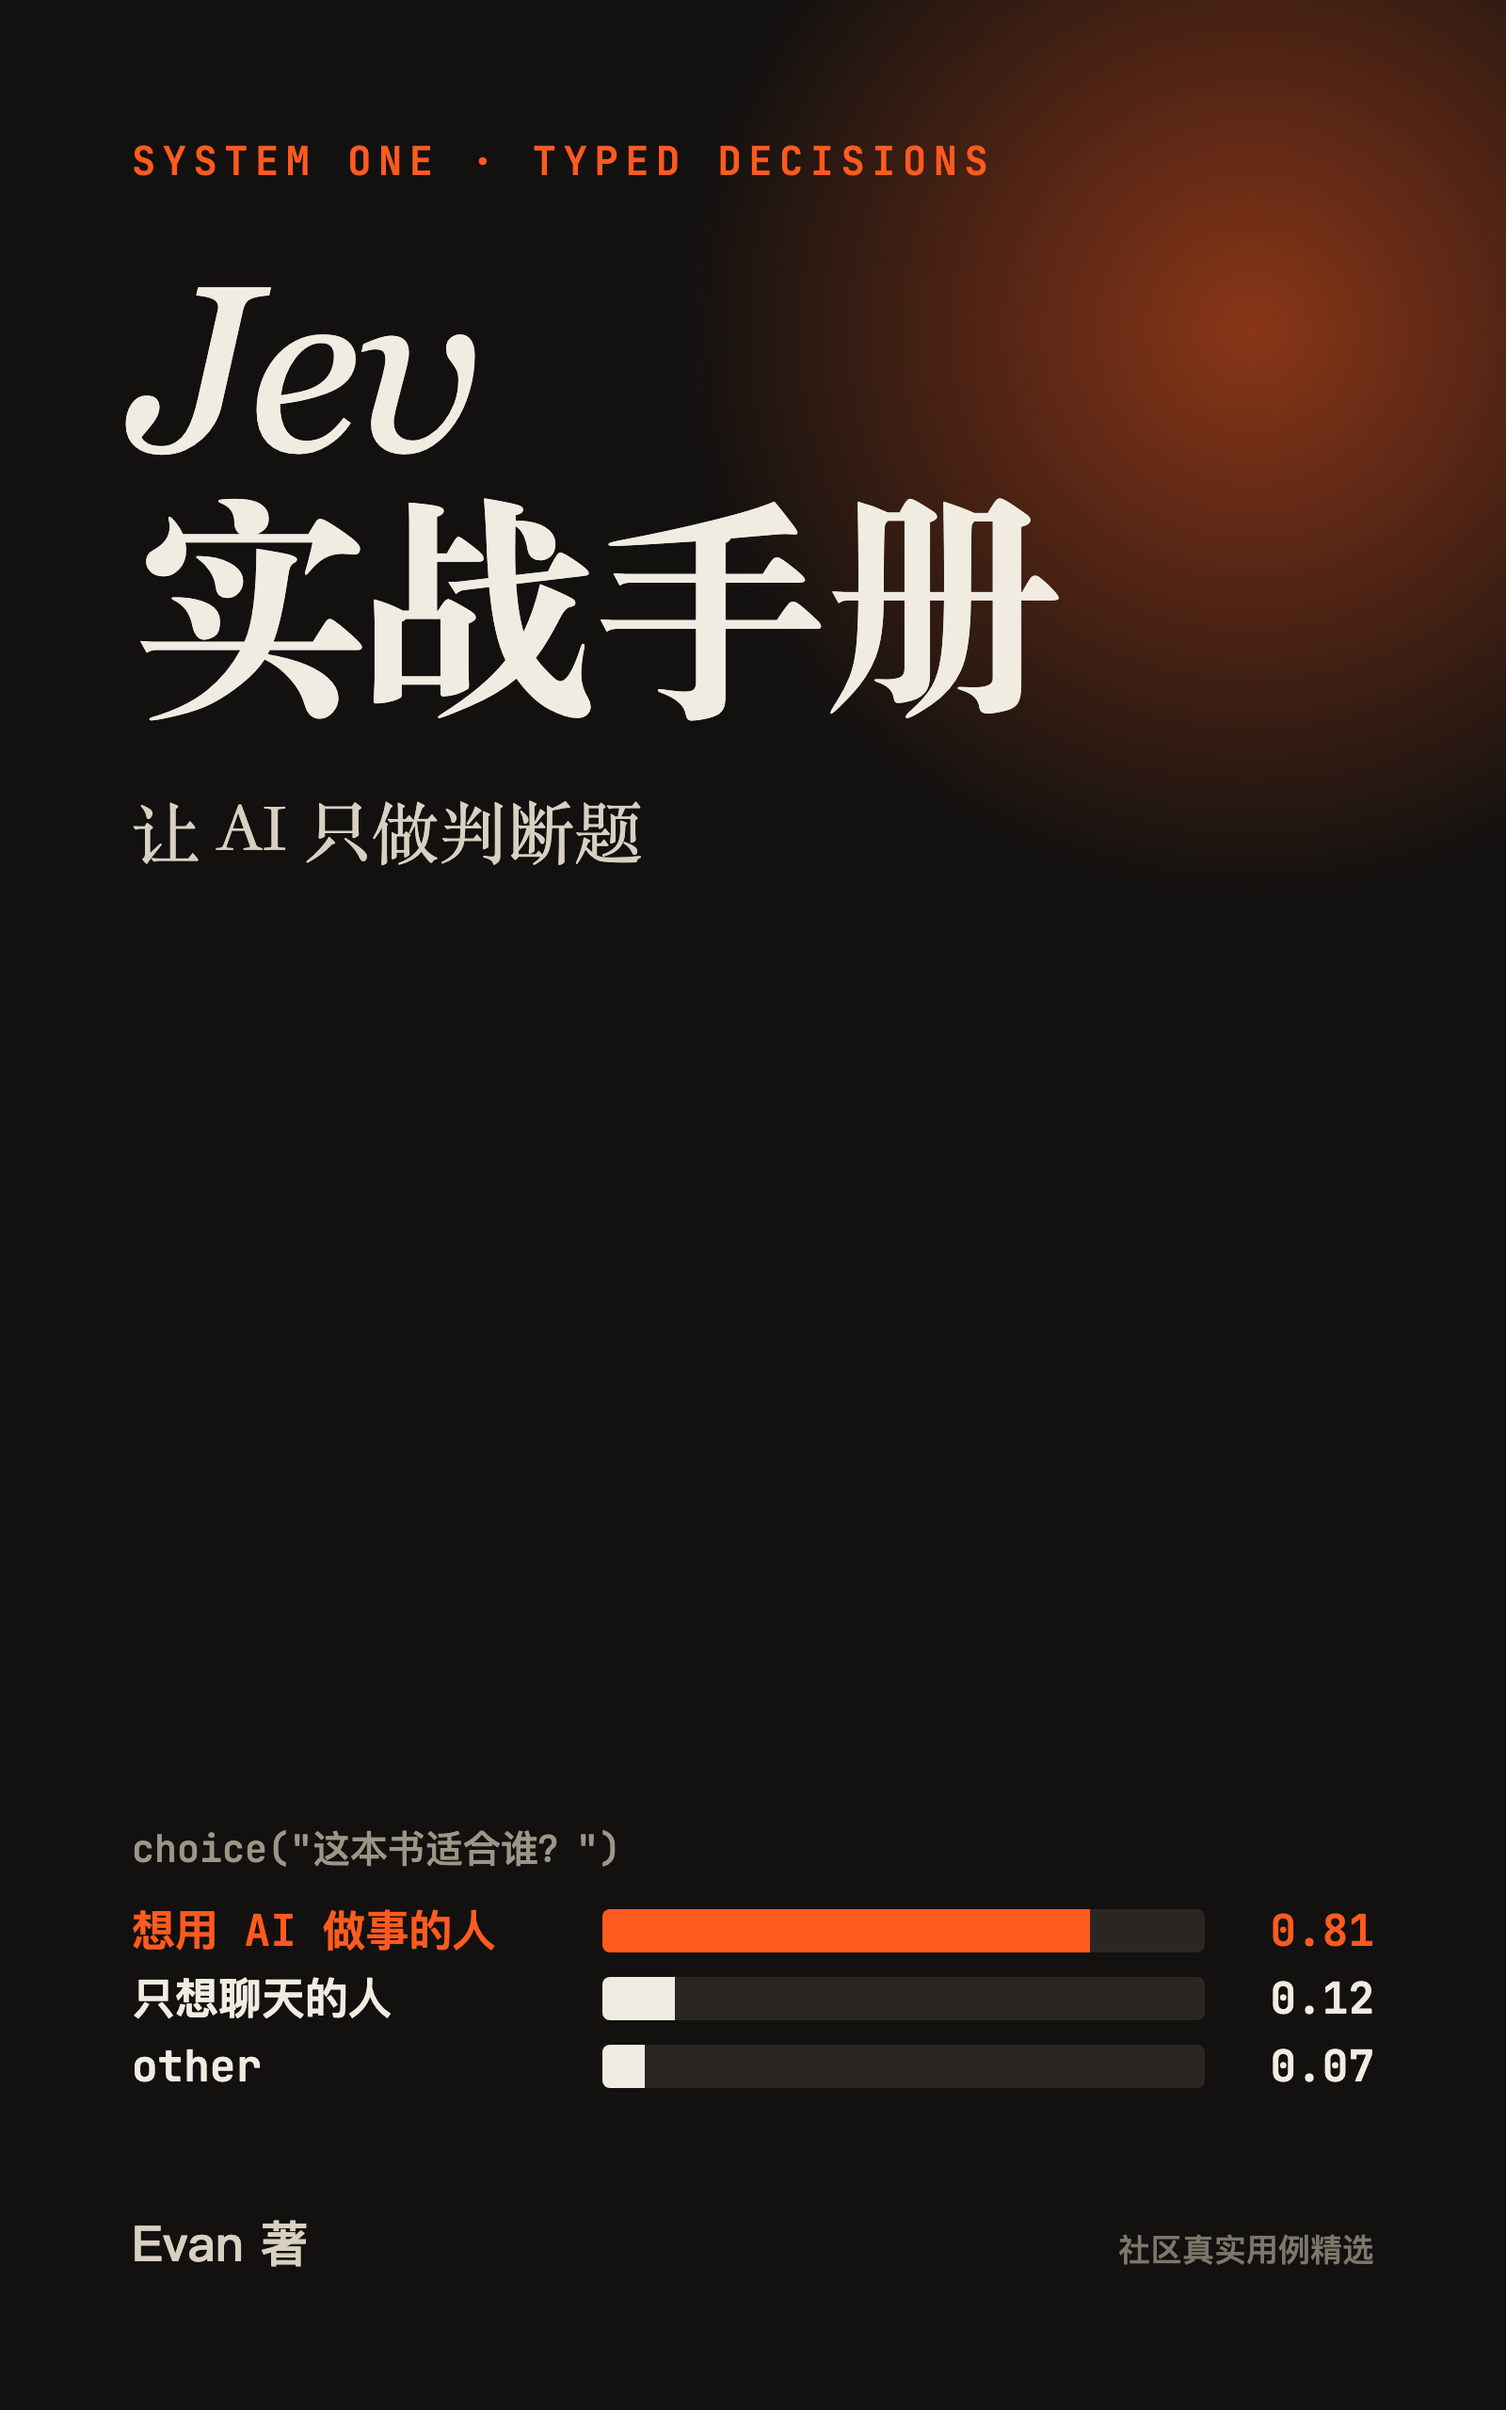
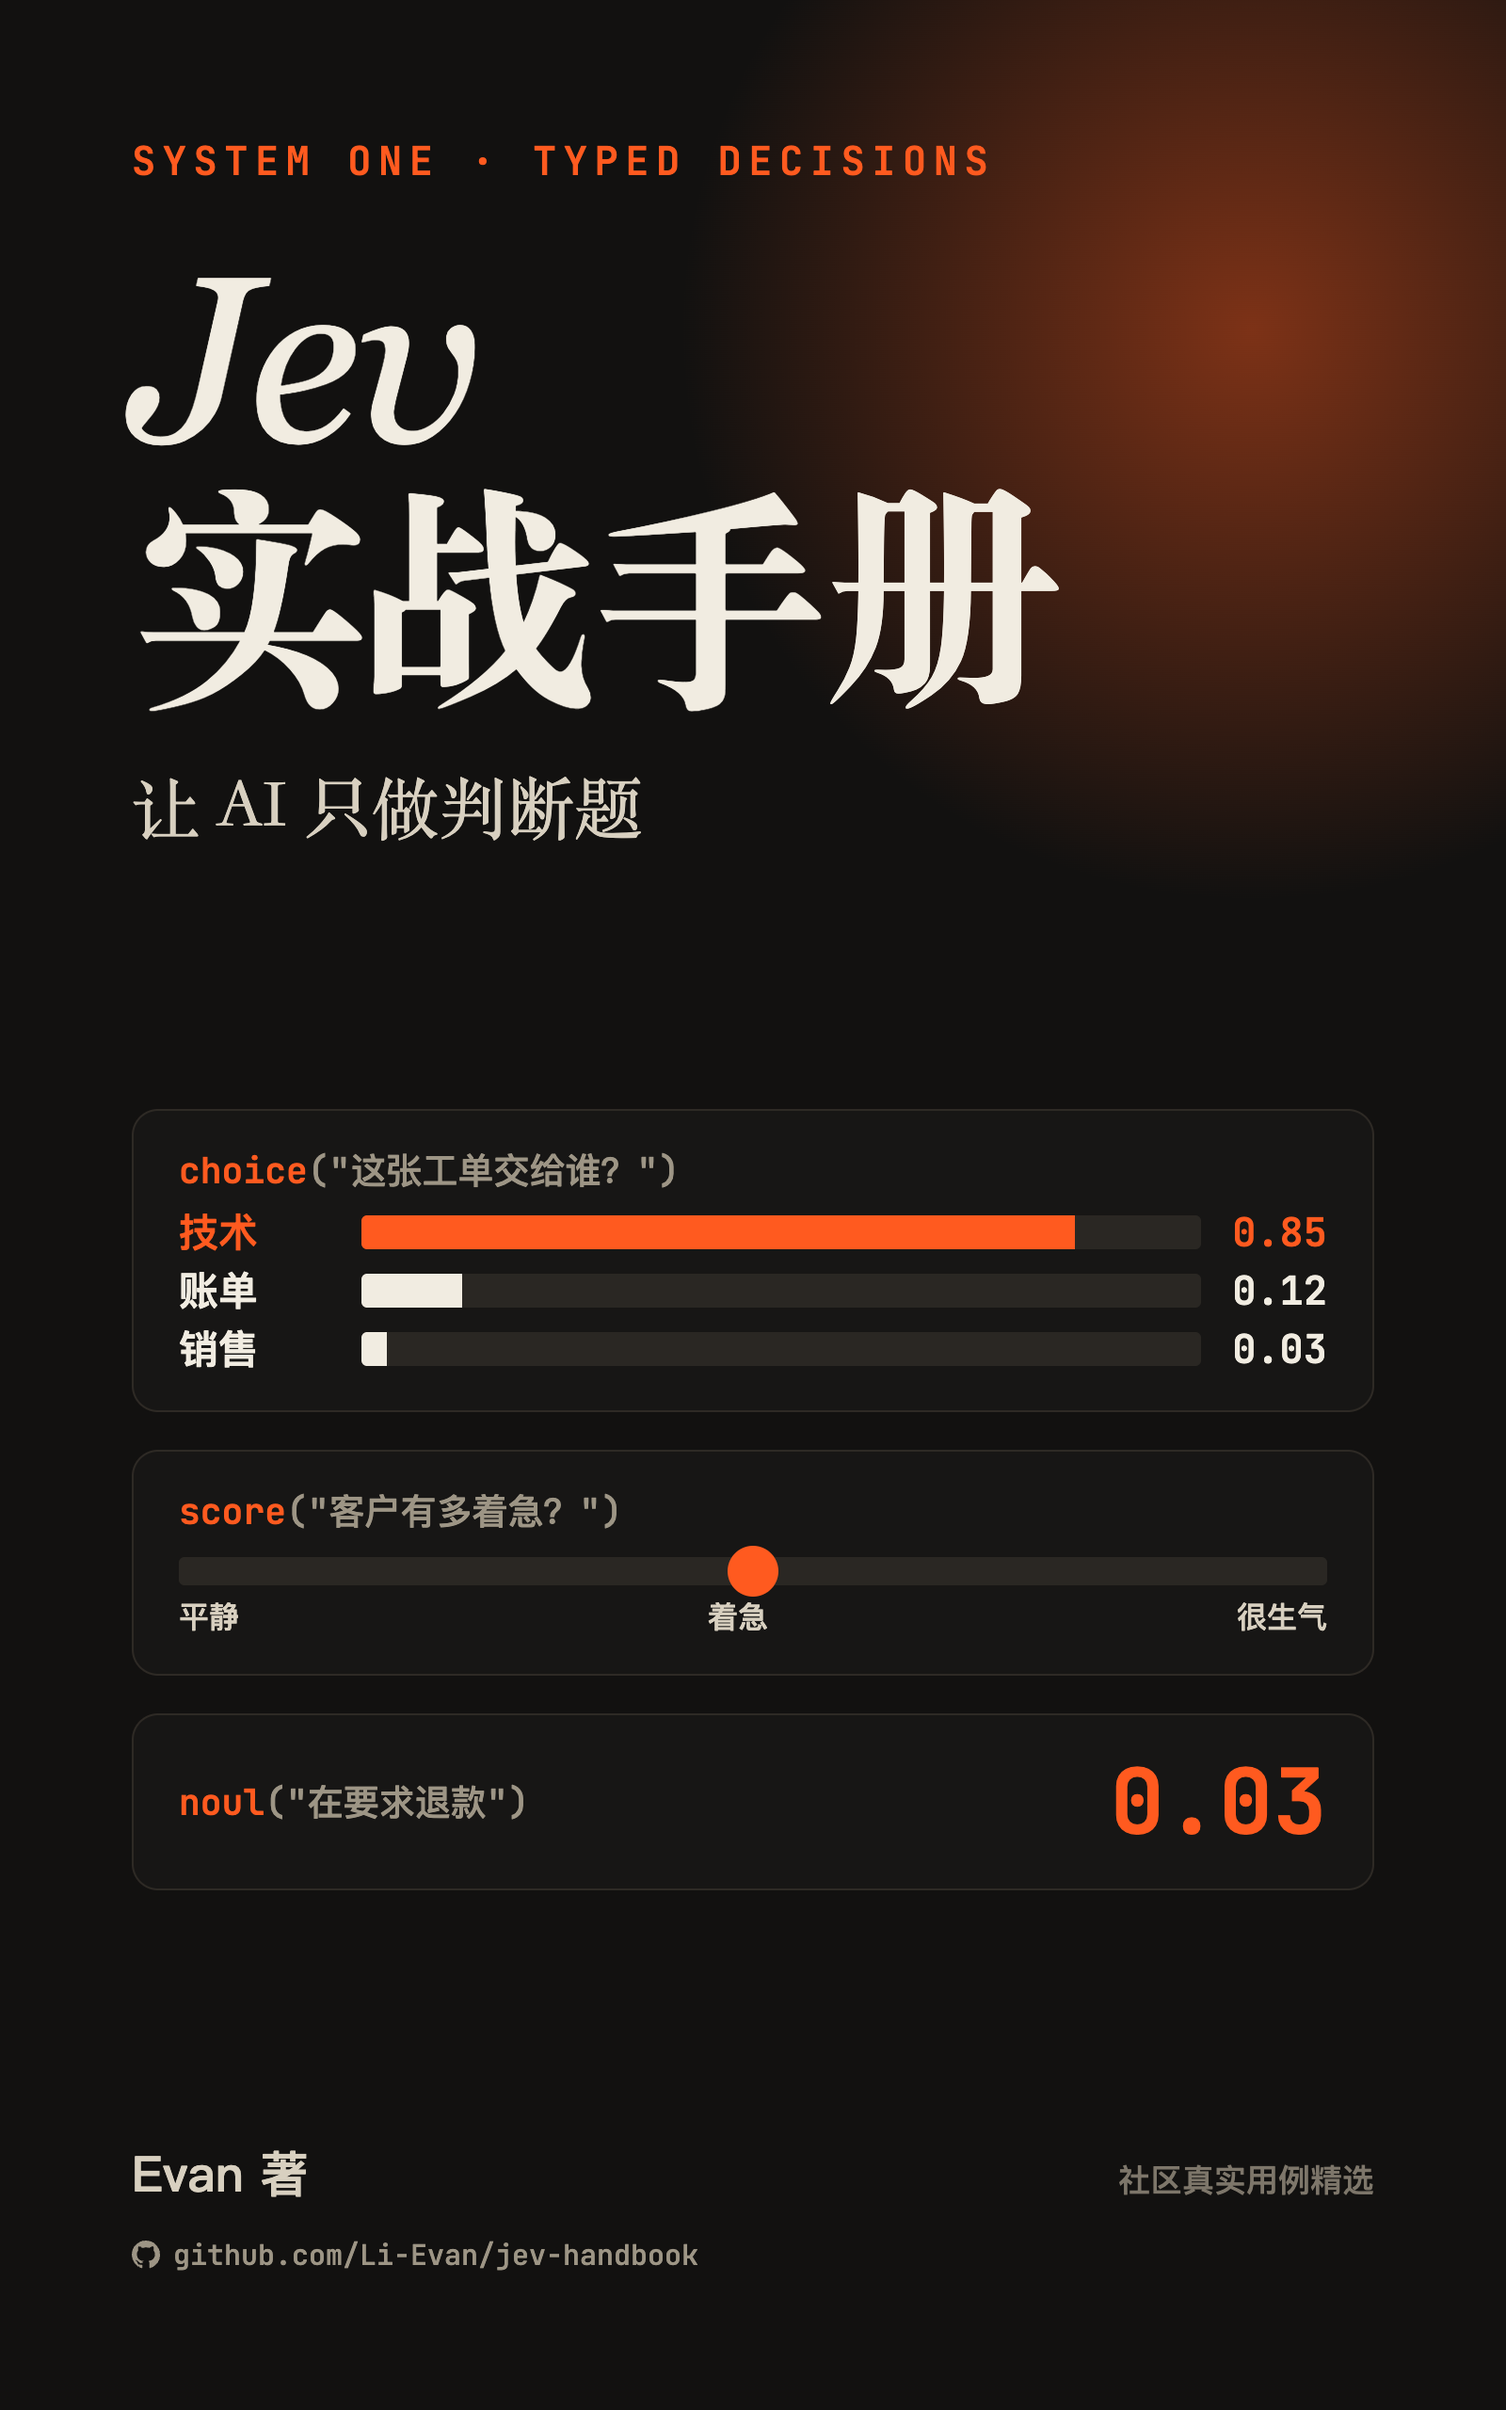
New cover: the three question types fill the middle
The cover now shows a Choice, a Score and a Noul answer, and prints the
GitHub line itself; the PDF adds an invisible link over that line.

diff --git a/assets/cover.html b/assets/cover.html
@@ -4,41 +4,52 @@
 <meta charset="utf-8">
 <!-- Source for assets/cover.png (1600x2560). Render with:
      "/Applications/Google Chrome.app/Contents/MacOS/Google Chrome" --headless=new --hide-scrollbars --virtual-time-budget=6000 --window-size=1600,2560 --screenshot=assets/cover.png assets/cover.html -->
-<link href="https://fonts.googleapis.com/css2?family=JetBrains+Mono:wght@500;600&display=swap" rel="stylesheet">
 <style>
-  * { box-sizing: border-box; margin: 0; }
-  body { width: 1600px; height: 2560px; overflow: hidden; background: #121110; color: #f1ece1; position: relative; font-family: "PingFang SC", sans-serif; }
-  .glow { position: absolute; right: -380px; top: -300px; width: 1300px; height: 1300px; border-radius: 50%; background: radial-gradient(circle, rgba(255, 90, 31, .5), transparent 66%); }
-  .inner { position: absolute; inset: 150px 140px; display: flex; flex-direction: column; }
-  .kicker { font: 600 42px/1 "JetBrains Mono", monospace; letter-spacing: .18em; color: #ff5a1f; }
-  h1 { margin-top: 70px; font: 900 250px/1.02 "Songti SC", "STSong", serif; letter-spacing: -.02em; }
-  h1 .latin { font-family: "Georgia", serif; font-style: italic; font-weight: 400; }
-  .sub { margin-top: 60px; font: 500 72px/1.3 "Songti SC", "STSong", serif; color: #d8d0c0; }
-  .q { margin-top: auto; font: 500 40px/1.4 "JetBrains Mono", monospace; color: #9d9585; }
-  .opts { margin-top: 36px; display: grid; gap: 26px; }
-  .opt { display: grid; grid-template-columns: 470px 1fr 150px; white-space: nowrap; align-items: center; gap: 30px; font: 600 46px/1 "JetBrains Mono", monospace; }
-  .bar { height: 46px; border-radius: 8px; background: #2a2723; overflow: hidden; }
-  .bar i { display: block; height: 100%; background: #f1ece1; }
-  .opt.win .bar i { background: #ff5a1f; }
-  .opt.win { color: #ff5a1f; }
-  .opt .p { text-align: right; }
-  .author { margin-top: 140px; display: flex; justify-content: space-between; align-items: baseline; font: 500 52px/1 "PingFang SC", sans-serif; color: #d8d0c0; }
-  .author .note { font: 500 34px/1 "JetBrains Mono", monospace; color: #7d766a; }
+@import url("https://fonts.googleapis.com/css2?family=JetBrains+Mono:wght@500;600;700&display=swap");
+* { box-sizing: border-box; margin: 0; }
+body { width: 1600px; height: 2560px; overflow: hidden; background: #121110; color: #f1ece1; position: relative; font-family: "PingFang SC", sans-serif; }
+.inner { position: absolute; inset: 150px 140px; display: flex; flex-direction: column; }
+.kicker { font: 600 42px/1 "JetBrains Mono", monospace; letter-spacing: .18em; color: #ff5a1f; }
+h1 { font: 900 250px/1.02 "Songti SC", "STSong", serif; letter-spacing: -.02em; }
+h1 .latin { font-family: "Georgia", serif; font-style: italic; font-weight: 400; }
+.sub { font: 500 72px/1.3 "Songti SC", "STSong", serif; color: #d8d0c0; }
+.mono { font-family: "JetBrains Mono", monospace; }
+.author { display: flex; justify-content: space-between; align-items: baseline; font: 500 52px/1 "PingFang SC", sans-serif; color: #d8d0c0; }
+.author .note { font: 500 34px/1 "PingFang SC", sans-serif; color: #7d766a; }
+.gh { margin-top: 44px; font: 500 30px/1 "JetBrains Mono", monospace; color: #9d9585; display: flex; align-items: center; gap: 14px; }
+.gh svg { width: 30px; height: 30px; }
+.glow { position:absolute; right:-380px; top:-300px; width:1300px; height:1300px; border-radius:50%; background: radial-gradient(circle, rgba(255,90,31,.45), transparent 66%); }
+h1 { margin-top: 60px; } .sub { margin-top: 44px; }
+.cards { margin: auto 0; display: grid; gap: 40px; }
+.card { border: 2px solid #2e2a25; border-radius: 28px; padding: 44px 48px; background: rgba(255,255,255,.02); }
+.q { font: 500 38px/1 "JetBrains Mono", monospace; color: #9d9585; margin-bottom: 26px; }
+.q b { color: #ff5a1f; font-weight: 600; }
+.row { display: grid; grid-template-columns: 170px 1fr 110px; gap: 24px; align-items: center; font: 600 42px/1 "PingFang SC"; margin-top: 20px; }
+.bar { height: 36px; background: #2a2723; border-radius: 6px; overflow: hidden; } .bar i { display:block; height:100%; background:#f1ece1; }
+.win { color: #ff5a1f; } .win .bar i { background: #ff5a1f; } .p { text-align:right; font-family: "JetBrains Mono", monospace; }
+.scale { position: relative; height: 30px; background: #2a2723; border-radius: 6px; margin: 30px 0 18px; }
+.scale .dot { position:absolute; top:-12px; left: 50%; width: 54px; height: 54px; border-radius: 50%; background:#ff5a1f; transform: translateX(-50%); }
+.ticks { display:flex; justify-content: space-between; font: 500 32px/1 "PingFang SC"; color: #d8d0c0; }
+.noul { display:flex; align-items: center; justify-content: space-between; }
+.noul .big { font: 700 96px/1 "JetBrains Mono", monospace; color: #ff5a1f; }
+.author { }
 </style>
 </head>
-<body>
-  <div class="glow"></div>
-  <div class="inner">
-    <div class="kicker">SYSTEM ONE · TYPED DECISIONS</div>
-    <h1><span class="latin">Jev</span><br>实战手册</h1>
-    <div class="sub">让 AI 只做判断题</div>
-    <div class="q">choice("这本书适合谁？")</div>
-    <div class="opts">
-      <div class="opt win"><span>想用 AI 做事的人</span><div class="bar"><i style="width:81%"></i></div><span class="p">0.81</span></div>
-      <div class="opt"><span>只想聊天的人</span><div class="bar"><i style="width:12%"></i></div><span class="p">0.12</span></div>
-      <div class="opt"><span>other</span><div class="bar"><i style="width:7%"></i></div><span class="p">0.07</span></div>
-    </div>
-    <div class="author"><span>Evan 著</span><span class="note">社区真实用例精选</span></div>
-  </div>
-</body>
+<body><div class="glow"></div><div class="inner">
+<div class="kicker">SYSTEM ONE · TYPED DECISIONS</div>
+<h1><span class="latin">Jev</span><br>实战手册</h1>
+<div class="sub">让 AI 只做判断题</div>
+<div class="cards">
+ <div class="card"><div class="q"><b>choice</b>("这张工单交给谁？")</div>
+  <div class="row win"><span>技术</span><div class="bar"><i style="width:85%"></i></div><span class="p">0.85</span></div>
+  <div class="row"><span>账单</span><div class="bar"><i style="width:12%"></i></div><span class="p">0.12</span></div>
+  <div class="row"><span>销售</span><div class="bar"><i style="width:3%"></i></div><span class="p">0.03</span></div></div>
+ <div class="card"><div class="q"><b>score</b>("客户有多着急？")</div>
+  <div class="scale"><div class="dot"></div></div>
+  <div class="ticks"><span>平静</span><span>着急</span><span>很生气</span></div></div>
+ <div class="card noul"><div class="q" style="margin:0"><b>noul</b>("在要求退款")</div><span class="big">0.03</span></div>
+</div>
+<div class="author"><span>Evan 著</span><span class="note">社区真实用例精选</span></div>
+<div class="gh"><svg viewBox="0 0 16 16"><path fill="#9d9585" d="M8 0C3.58 0 0 3.58 0 8c0 3.54 2.29 6.53 5.47 7.59.4.07.55-.17.55-.38 0-.19-.01-.82-.01-1.49-2.01.37-2.53-.49-2.69-.94-.09-.23-.48-.94-.82-1.13-.28-.15-.68-.52-.01-.53.63-.01 1.08.58 1.23.82.72 1.21 1.87.87 2.33.66.07-.52.28-.87.51-1.07-1.78-.2-3.64-.89-3.64-3.95 0-.87.31-1.59.82-2.15-.08-.2-.36-1.02.08-2.12 0 0 .67-.21 2.2.82.64-.18 1.32-.27 2-.27.68 0 1.36.09 2 .27 1.53-1.04 2.2-.82 2.2-.82.44 1.1.16 1.92.08 2.12.51.56.82 1.27.82 2.15 0 3.07-1.87 3.75-3.65 3.95.29.25.54.73.54 1.48 0 1.07-.01 1.93-.01 2.2 0 .21.15.46.55.38A8.013 8.013 0 0016 8c0-4.42-3.58-8-8-8z"/></svg>github.com/Li-Evan/jev-handbook</div>
+</div></body>
 </html>

diff --git a/tools/print.html b/tools/print.html
@@ -12,7 +12,7 @@ $endfor$
 <body>
 <section class="cover">
   <img src="assets/cover.png" alt="$title$ 封面">
-  <a class="gh" href="https://github.com/Li-Evan/jev-handbook"><svg viewBox="0 0 16 16" aria-hidden="true"><path fill="#9d9585" d="M8 0C3.58 0 0 3.58 0 8c0 3.54 2.29 6.53 5.47 7.59.4.07.55-.17.55-.38 0-.19-.01-.82-.01-1.49-2.01.37-2.53-.49-2.69-.94-.09-.23-.48-.94-.82-1.13-.28-.15-.68-.52-.01-.53.63-.01 1.08.58 1.23.82.72 1.21 1.87.87 2.33.66.07-.52.28-.87.51-1.07-1.78-.2-3.64-.89-3.64-3.95 0-.87.31-1.59.82-2.15-.08-.2-.36-1.02.08-2.12 0 0 .67-.21 2.2.82.64-.18 1.32-.27 2-.27.68 0 1.36.09 2 .27 1.53-1.04 2.2-.82 2.2-.82.44 1.1.16 1.92.08 2.12.51.56.82 1.27.82 2.15 0 3.07-1.87 3.75-3.65 3.95.29.25.54.73.54 1.48 0 1.07-.01 1.93-.01 2.2 0 .21.15.46.55.38A8.013 8.013 0 0016 8c0-4.42-3.58-8-8-8z"/></svg>github.com/Li-Evan/jev-handbook</a>
+  <a class="gh" href="https://github.com/Li-Evan/jev-handbook" aria-label="GitHub: Li-Evan/jev-handbook"></a>
 </section>
 <nav class="toc"><h1 class="toc-title">目录</h1>$table-of-contents$</nav>
 <main>$body$</main>

diff --git a/tools/print.css b/tools/print.css
@@ -13,9 +13,8 @@ body { margin: 0; color: #1b1915; line-height: 1.75; text-align: left;
 
 .cover { page: cover; position: relative; width: 150mm; height: 240mm; margin: 0; }
 .cover img { display: block; width: 150mm; height: 240mm; }
-.cover .gh { position: absolute; left: 13mm; bottom: 6mm; color: #9d9585; text-decoration: none;
-  font: 7.5pt "JetBrains Mono", Menlo, "DejaVu Sans Mono", monospace; letter-spacing: .02em; }
-.cover .gh svg { width: 8pt; height: 8pt; margin-right: 4pt; vertical-align: -1pt; }
+/* The cover image already prints the GitHub line; this makes it clickable. */
+.cover .gh { position: absolute; display: block; left: 12.5mm; bottom: 13.2mm; width: 58mm; height: 4.6mm; }
 
 nav.toc { page: front; break-before: page; }
 nav.toc .toc-title { font: 700 18pt/1.3 "Songti SC", "Noto Serif CJK SC", serif; margin: 0 0 6mm; }
